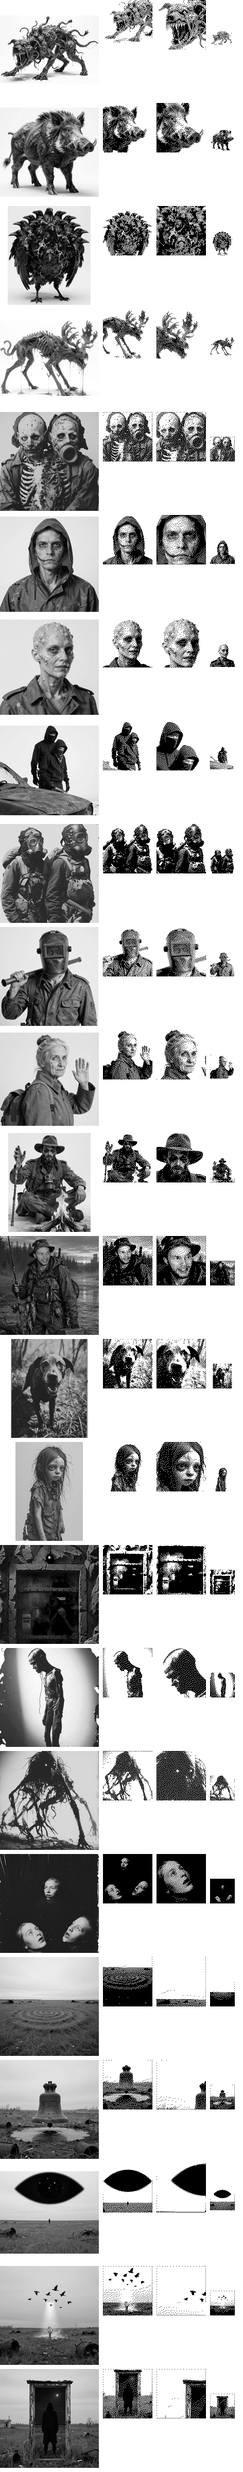
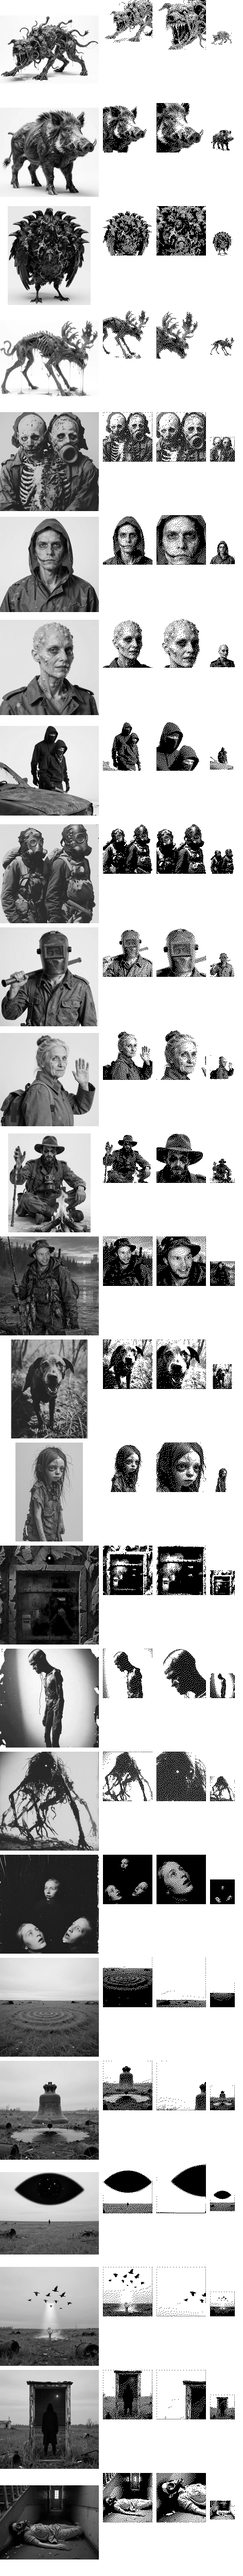
The Churn: Vesna's picture
The user's picture of Vesna, fitted as the story scene's portrait; the
scene text, her epitaph and the lore now match it.

Claude-Session: https://claude.ai/code/session_01SuvJnz175qPkCT91FUK7Pe

diff --git a/examples/churn/tools/paint_portraits.py b/examples/churn/tools/paint_portraits.py
@@ -205,6 +205,12 @@ PHOTO = {
     "stray": {"far": (24, 150, 488, 744), "near": (60, 200, 470, 640),
               "close": (170, 220, 430, 500), "gamma": 1.0, "edge": 0.7,
               "levels": (0.12, 0.60), "bg": 0.70},
+    # the user's (2026-10-04, 1216x912): Vesna dead in a school corridor, gas
+    # mask on, picks by her hand, a door at the end. near = her and the
+    # corridor (the scene shows near); close = the mask and her chest
+    "vesna": {"far": (0, 0, 1216, 912), "near": (100, 1, 1010, 911),
+              "close": (100, 400, 560, 800), "gamma": 0.9, "edge": 0.7,
+              "levels": (0.06, 0.34), "bg": 0.95, "rust": -1.5},   # (dark: narrow levels; her khaki lifted off the floor)
 }
 
 

diff --git a/examples/churn/LORE.md b/examples/churn/LORE.md
@@ -424,7 +424,7 @@ You wake knowing only how to get through the first day: a torch, a fire, a banda
 
 **Locked crates.** With lockpicks, some ruins give up a sealed crate: lab books, ledgers, gunsmith kits, gun frames, rounds, now and then a whole pistol. A USB drive sometimes holds a map to a sealed Institute crate a few hexes off; only lockpicks open it, and it holds three times as much. Under the tray of the first one lies a second map: a crate by the old quarry, stamped CLEARANCE. In a sealed sleeve inside it, an Institute Pass with the photo scratched out.
 
-**Dead churners.** Now and then a ruin holds a churner who didn't make it home. It's rare, and never twice in one place. What they carried for the Churn is still on them: a tape, a book, a drive, gun parts, rounds, a cassette player. They tell you how it went without a word: *"A churner in a gas mask, still holding a bolt."* *"A churner sitting against the wall. Their notebook is just one word, over and over."* One of them has a name. On a tape called Day 9, a woman out of breath: *"Vesna. Bolt, bolt, step. The old school's full of it. Nobody comes down from the second floor. Picks in my hand, I'm going up. If you're hearing this, the tape's still here and I'm not."* Once you've heard her, you keep finding the dead, until one of them is her: at the top of the stairs, her picks still in her hand.
+**Dead churners.** Now and then a ruin holds a churner who didn't make it home. It's rare, and never twice in one place. What they carried for the Churn is still on them: a tape, a book, a drive, gun parts, rounds, a cassette player. They tell you how it went without a word: *"A churner in a gas mask, still holding a bolt."* *"A churner sitting against the wall. Their notebook is just one word, over and over."* One of them has a name. On a tape called Day 9, a woman out of breath: *"Vesna. Bolt, bolt, step. The old school's full of it. Nobody comes down from the second floor. Picks in my hand, I'm going up. If you're hearing this, the tape's still here and I'm not."* Once you've heard her, you keep finding the dead, until one of them is her: on her back in a corridor by the stairs, gas mask on, her picks by her open hand.
 
 **Rubles.** The money of the old world still buys things here. Piles of rubles turn up in ruins, in Institute crates, on dead churners and in bandits' pockets. Every trader takes them, pays them out for what you sell, and gives change in them. The Trader's Churn Permit costs 225, more than most churners ever hold at once.
 

diff --git a/examples/churn/HANDOFF.md b/examples/churn/HANDOFF.md
@@ -134,6 +134,7 @@ The sim is not byte-reproducible between processes (Lua 5.4 varies `pairs` order
 > - **Names.** Tapes are "Cassette Tape: ..." (short "Tape: ..." for the trade list); "Blank Cassette Tape". **Permit** value 80 -> 150 (225 at the trader). Balance (150 runs, normal): median 18.0 days, alive at the cap 22.7%, escaped 4.7% (was 8%; the bot doesn't buy the permit).
 > - **Records** list only earned achievements, then "N more to find." **Finds** page lines wrap at 55 (the empty-page line was cut off). **Help** was too long for the screen (the last tips never showed): page 1 keys, page 2 tips (Down/Up).
 > - **Sound.** `title` tune once at start-up (`begin_intro`, respects a saved mute); emission: `emission` (caught) is in a range small speakers play, `emission_cover` when you're sheltered (it was silent), `emission_end`.
+> - **Vesna's picture** (same day): `art/vesna.png` (the user's: on her back in a school corridor by the stairs, gas mask, picks by her hand, a lit door at the end). Dark, so `PHOTO` levels (0.06, 0.34) and `rust` -1.5 lift her khaki off the grey floor; near = the full height (a square crop past the edge leaves a white strip). Scene text and epitaph rewritten to match; preview `preview_scene_vesna.png`.
 > - Tests: new `playtest_test.lua`; `trade_test` 4b (rubles), `regression_test` 17, `skills_test` 3, `records_test` 9; `radiation_test` 2 reads every log line (a cairn or a tip could push the feeling off the 3-line log: a flake on ~1 seed in 4).
 >
 > **"13456" (2026-10-03):**
